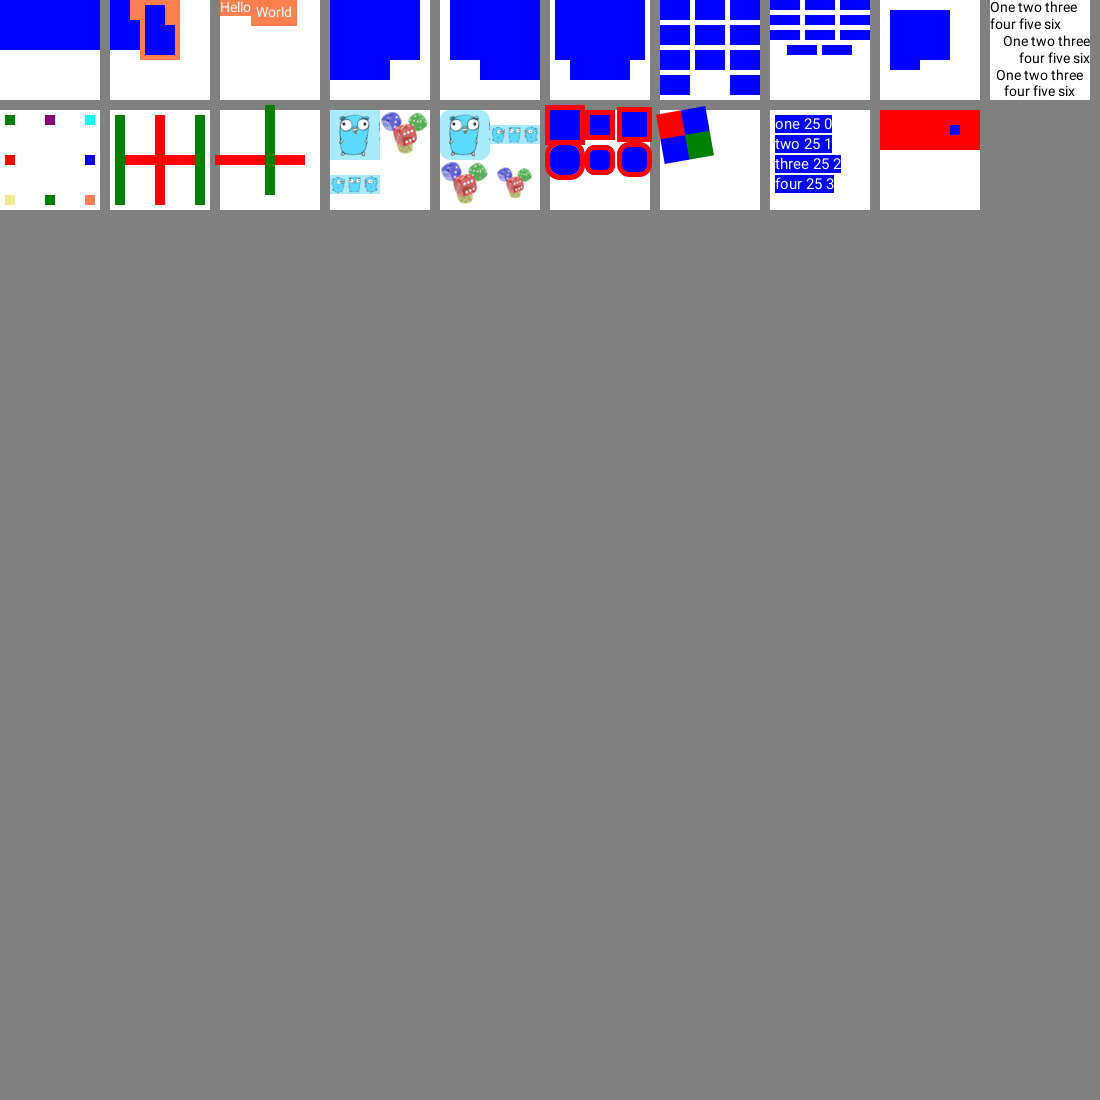
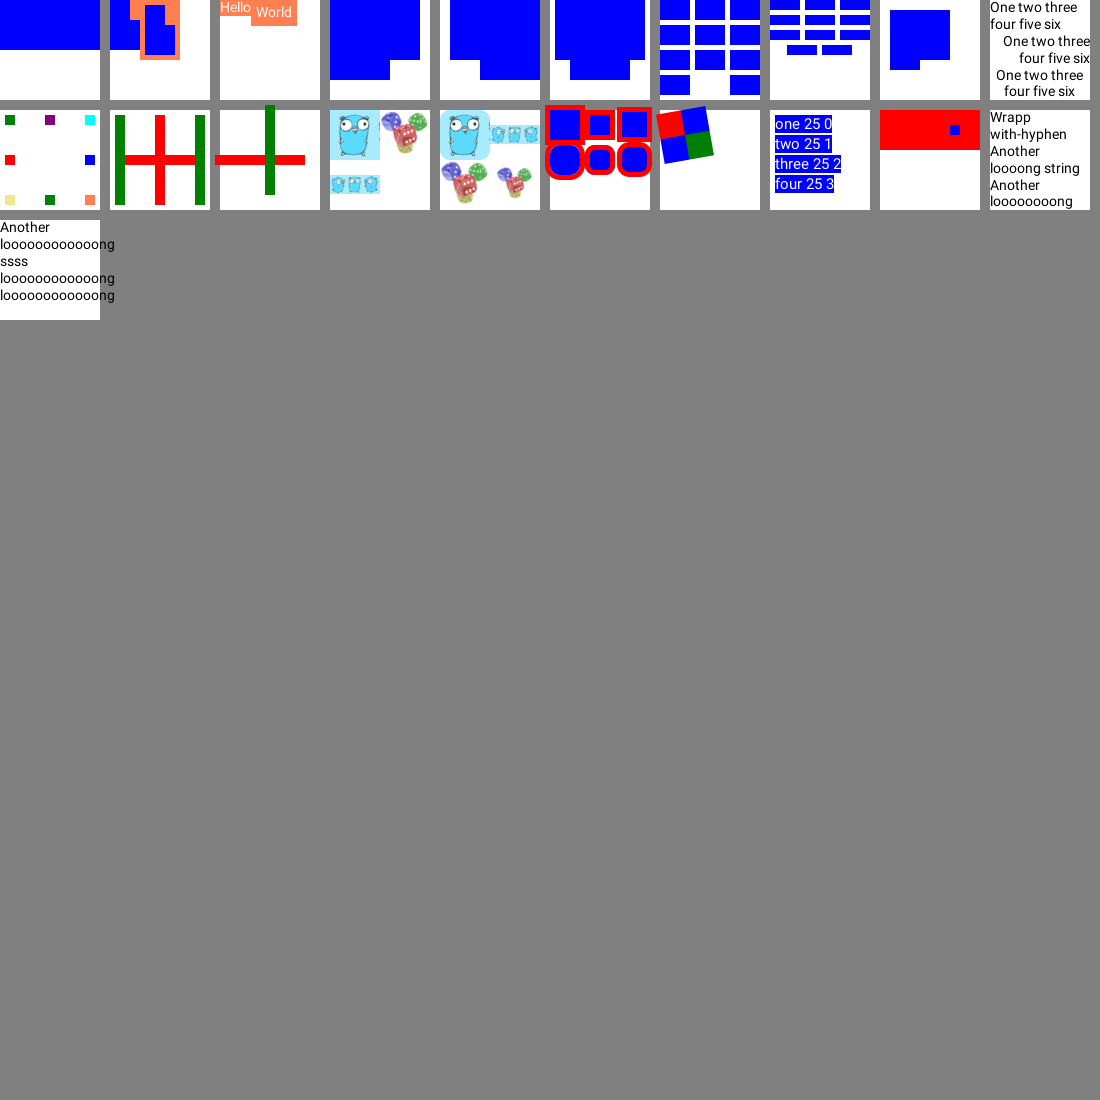
fix words wrap

Changed region(s): [[0.8964, 0.0927, 1.0, 0.2164], [0.0, 0.1855, 0.1236, 0.3091]]

diff --git a/internal/layout/layout.go b/internal/layout/layout.go
@@ -150,33 +150,33 @@ func doLayoutNode(pn parsing.Node, nodes *Nodes, context layoutPhaseContext, val
 				var currentInRowIndex int
 				var currentWidth float64
 
-				var prevInRow *Node
-				nodes.IterateChildNodes(childrenNodesLevel, from, func(cn *Node) {
-					if !cn.IsAbsolutePositioned() {
-						if props.IsWrappingEnabled && currentWidth+cn.Size.W > newContext.size.W && cn.Size.W < newContext.size.W {
+				var prevNodeInRow *Node
+				nodes.IterateChildNodes(childrenNodesLevel, from, func(node *Node) {
+					if !node.IsAbsolutePositioned() {
+						if props.IsWrappingEnabled && currentWidth+node.Size.W > newContext.size.W {
 							currentWidth = 0
 							currentRowIndex += 1
 							currentInRowIndex = 0
 
 							// Maybe we can wrap whole-hyphened word to look it better
-							if prevInRow != nil && prevInRow.TextHasHyphenAtEnd {
-								wholeWidth := prevInRow.Size.W + cn.Size.W
+							if prevNodeInRow != nil && prevNodeInRow.TextHasHyphenAtEnd {
+								wholeWidth := prevNodeInRow.Size.W + node.Size.W
 								if wholeWidth <= newContext.size.W {
-									prevInRow.InRowIndex = currentRowIndex
-									prevInRow.RowIndex = 0
+									prevNodeInRow.InRowIndex = 0
+									prevNodeInRow.RowIndex = currentRowIndex
 									currentInRowIndex = 1
 								}
 							}
 
-							prevInRow = nil
+							prevNodeInRow = nil
 						}
-						currentWidth += cn.Size.W + lo.Ternary(cn.TextHasHyphenAtEnd, 0, textWhitespaceWidth) + props.InnerGap
+						currentWidth += node.Size.W + lo.Ternary(node.TextHasHyphenAtEnd, 0, textWhitespaceWidth) + props.InnerGap
 					}
 
-					cn.RowIndex = currentRowIndex
-					cn.InRowIndex = currentInRowIndex
+					node.RowIndex = currentRowIndex
+					node.InRowIndex = currentInRowIndex
 					currentInRowIndex += 1
-					prevInRow = cn
+					prevNodeInRow = node
 				})
 
 				if text != "" {
